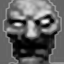
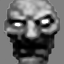
chore(sdf-lab): re-measure the edited face texture — mean 0.382 -> 0.406
The art changed, so the constant had to. `mean` is the level the multiplier
divides out, so a stale value shifts the whole head's brightness — here it
would have rendered ~6% dark. Re-measure after every edit to the sheet.

diff --git a/src/lab/sdf-zombie/lab-main.ts b/src/lab/sdf-zombie/lab-main.ts
@@ -138,7 +138,7 @@ const FACE_TEXTURES: Record<FaceTexName, { url: string; rect: [number, number, n
     // mean is MEASURED off the file, not guessed — it sets the level the
   // multiplier divides out, so a stale value shifts the whole head's
   // brightness. Re-measure after editing the art.
-  'zombie-flat': { url: '/assets/lab/zombie-face.png', rect: [0, 0, 64, 64, 64, 64], mean: 0.382 },
+  'zombie-flat': { url: '/assets/lab/zombie-face.png', rect: [0, 0, 64, 64, 64, 64], mean: 0.406 },
   smiley: { url: '/assets/lab/smiley.png', rect: [0, 0, 64, 64, 64, 64], mean: 0.66 },
   'blood-zombie': {
     url: '/assets/blood-tiles/1200.png',
